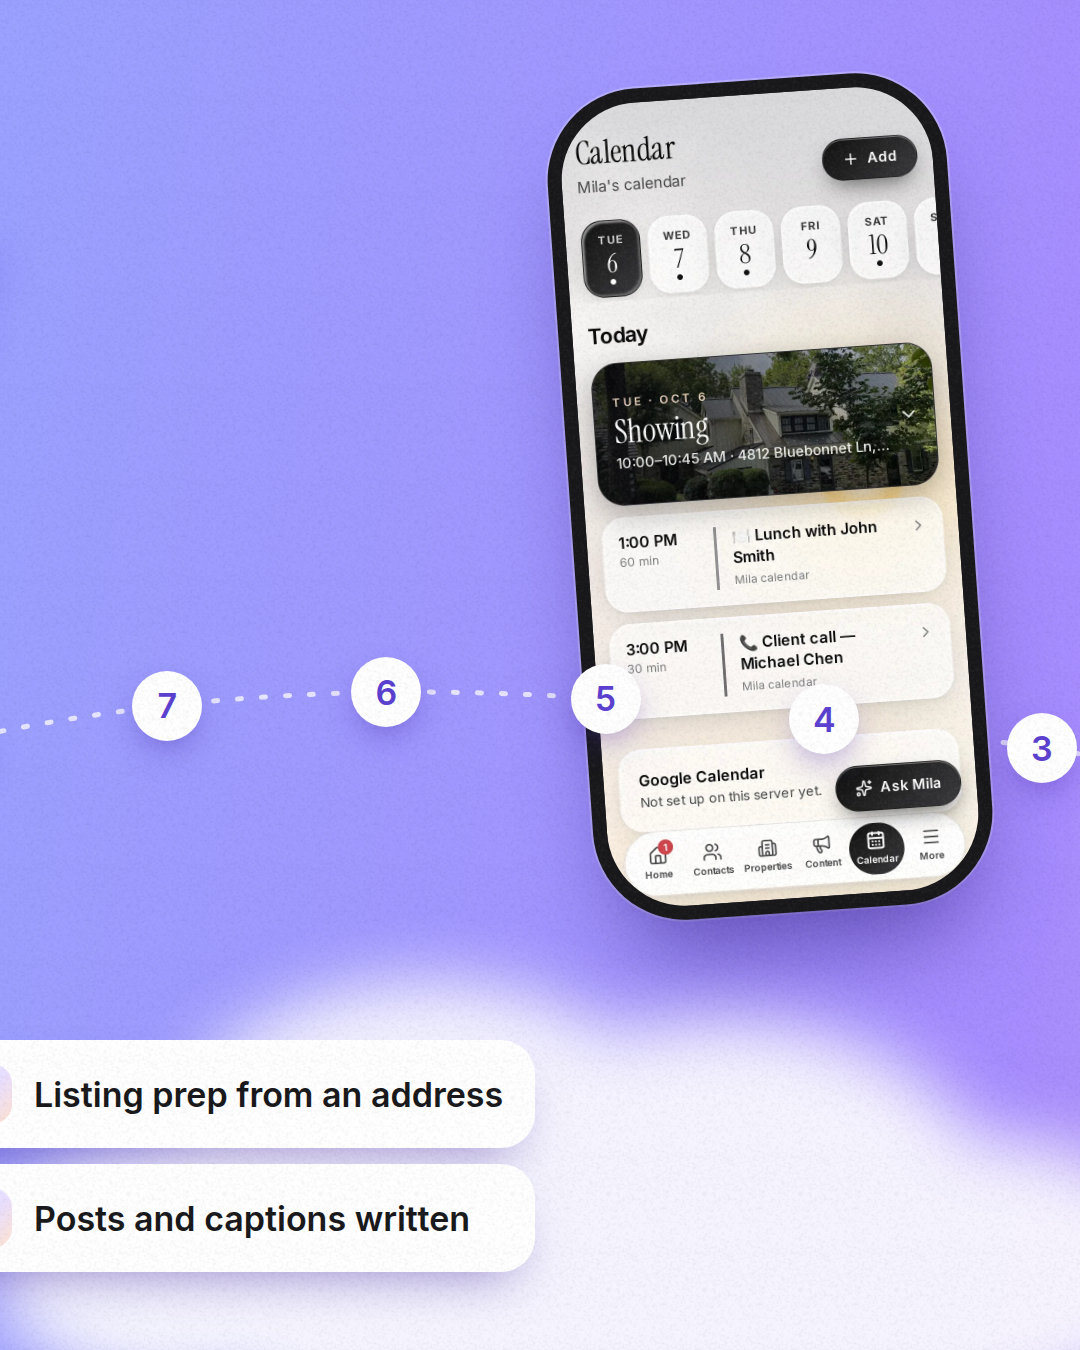
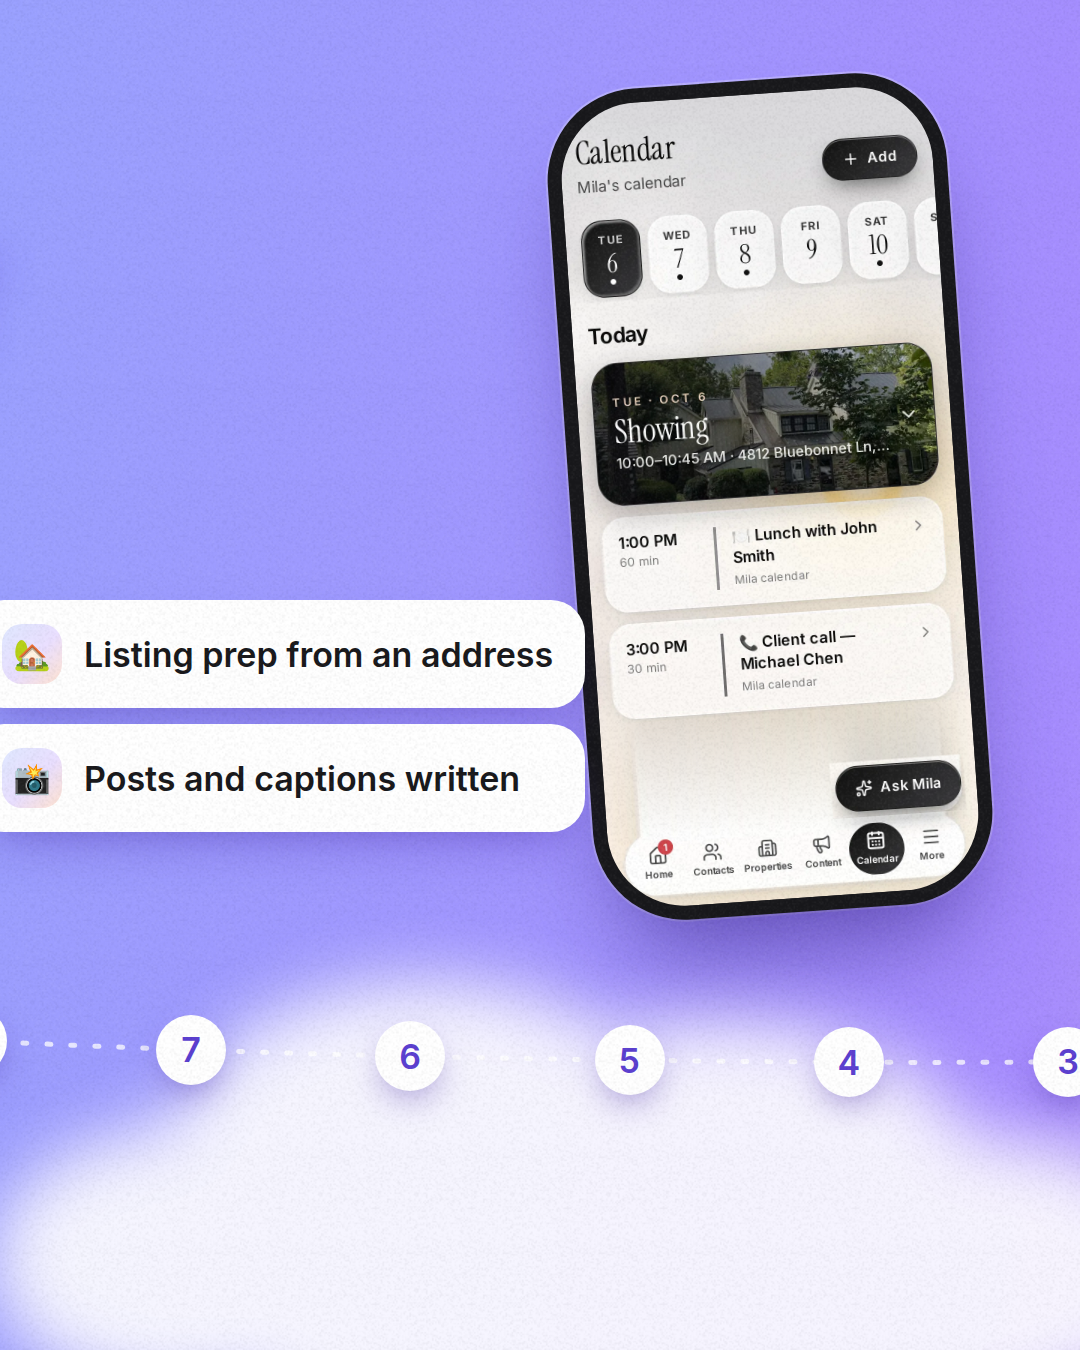
Carousel 2: remove 'not set up' text from calendar screenshot, relayout
Claude-Session: https://claude.ai/code/session_01TEBpQfqf9ErUdw2tuXqppw

diff --git a/launch-kit/instagram-carousel/pan-b.html b/launch-kit/instagram-carousel/pan-b.html
@@ -22,7 +22,7 @@ body{background:#222;font-family:Inter,sans-serif}
 <div class="pan" id="p">
  <img class="cl" src="assets/c2.webp" style="width:1500px;left:-300px;top:-140px;opacity:.8"><img class="cl" src="assets/c1.webp" style="width:1500px;left:1000px;top:850px"><img class="cl" src="assets/c3.webp" style="width:1500px;left:2500px;top:-160px;opacity:.7"><img class="cl" src="assets/c2.webp" style="width:1400px;left:3200px;top:850px;opacity:.85">
  <div class="logo" style="left:80px;text-shadow:0 2px 20px rgba(60,30,200,.7)">Mila</div>
- <svg class="a" style="left:0;top:0" width="4320" height="1350"><path id="pth" d="M0 940 C 700 940, 900 640, 1700 700 S 2900 980, 3500 760 S 4100 700, 4320 700" fill="none" stroke="rgba(255,255,255,.75)" stroke-width="5" stroke-dasharray="4 20" stroke-linecap="round"/></svg>
+ <svg class="a" style="left:0;top:0" width="4320" height="1350"><path id="pth" d="M0 1000 C 600 1000, 900 1050, 1700 1060 S 2900 1060, 3500 800 S 4100 700, 4320 700" fill="none" stroke="rgba(255,255,255,.75)" stroke-width="5" stroke-dasharray="4 20" stroke-linecap="round"/></svg>
  <div class="a serif" style="left:80px;top:210px;font-size:150px;white-space:nowrap;width:1000px;white-space:normal;text-shadow:0 4px 40px rgba(60,30,200,.7)">Your AI ops manager is <span style="font-style:italic">on her way.</span></div>
  <div id="days"></div>
  <div class="a" style="left:3640px;top:420px;text-align:center;width:640px">
@@ -30,12 +30,12 @@ body{background:#222;font-family:Inter,sans-serif}
   <div style="font-size:40px;font-weight:600;margin-top:22px;text-shadow:0 2px 24px rgba(60,30,200,.9)">Be first in the door.<br>Join the waitlist.</div>
   <div style="margin-top:44px"><div class="btn">Link in bio</div></div>
  </div>
- <div class="phone" style="width:400px;left:1650px;top:80px;transform:rotate(-4deg)"><img src="assets/m-calendar.webp"></div>
+ <div class="phone" style="width:400px;left:1650px;top:80px;transform:rotate(-4deg)"><img src="assets/m-calendar-clean.png"></div>
  <div class="phone" style="width:400px;left:3060px;top:640px;transform:rotate(3deg)"><img src="assets/m-content.webp"></div>
- <div class="a" style="left:1000px;top:1040px;display:grid;gap:16px">
+ <div class="a" style="left:1050px;top:600px;display:grid;gap:16px">
   <div class="chip"><i>🏡</i>Listing prep from an address</div><div class="chip"><i>📸</i>Posts and captions written</div>
  </div>
- <div class="a" style="left:2200px;top:300px;display:grid;gap:16px;width:520px">
+ <div class="a" style="left:2300px;top:150px;display:grid;gap:16px;width:520px">
   <div class="chip"><i>✉</i>Emails and texts drafted</div><div class="chip"><i>📅</i>Open houses on your calendar</div>
  </div>
  <div class="a sw" style="left:80px;bottom:90px;text-shadow:0 2px 24px rgba(80,50,200,.55)">SWIPE →</div>
